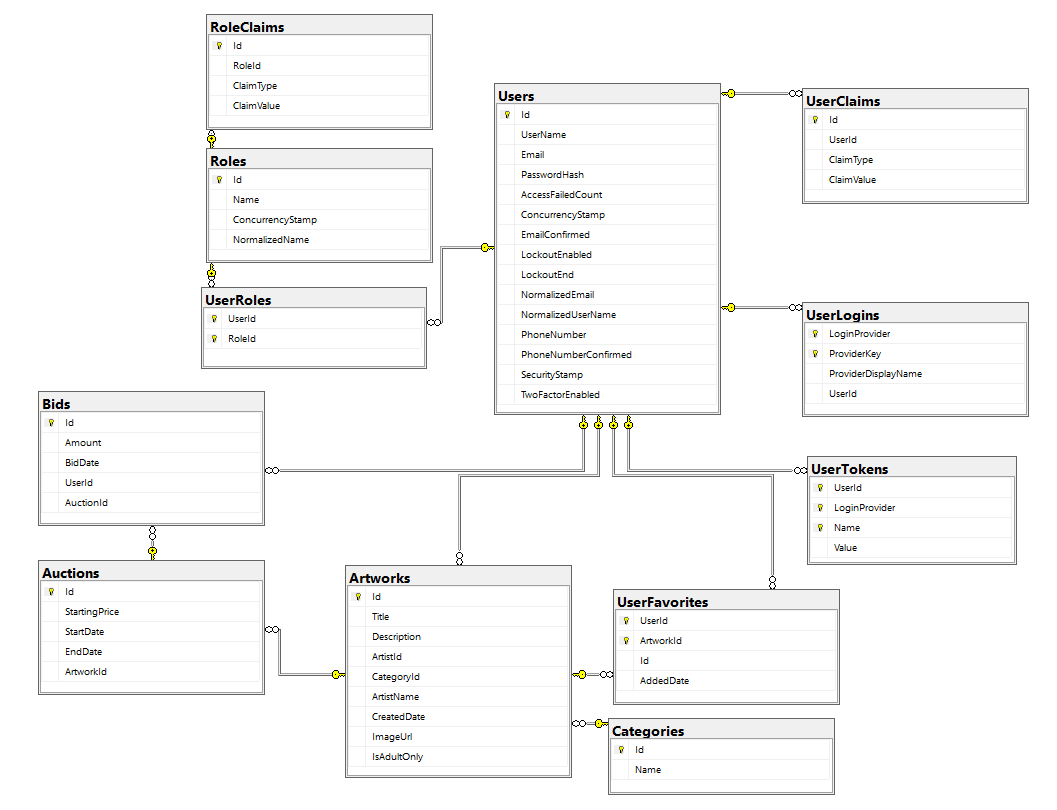
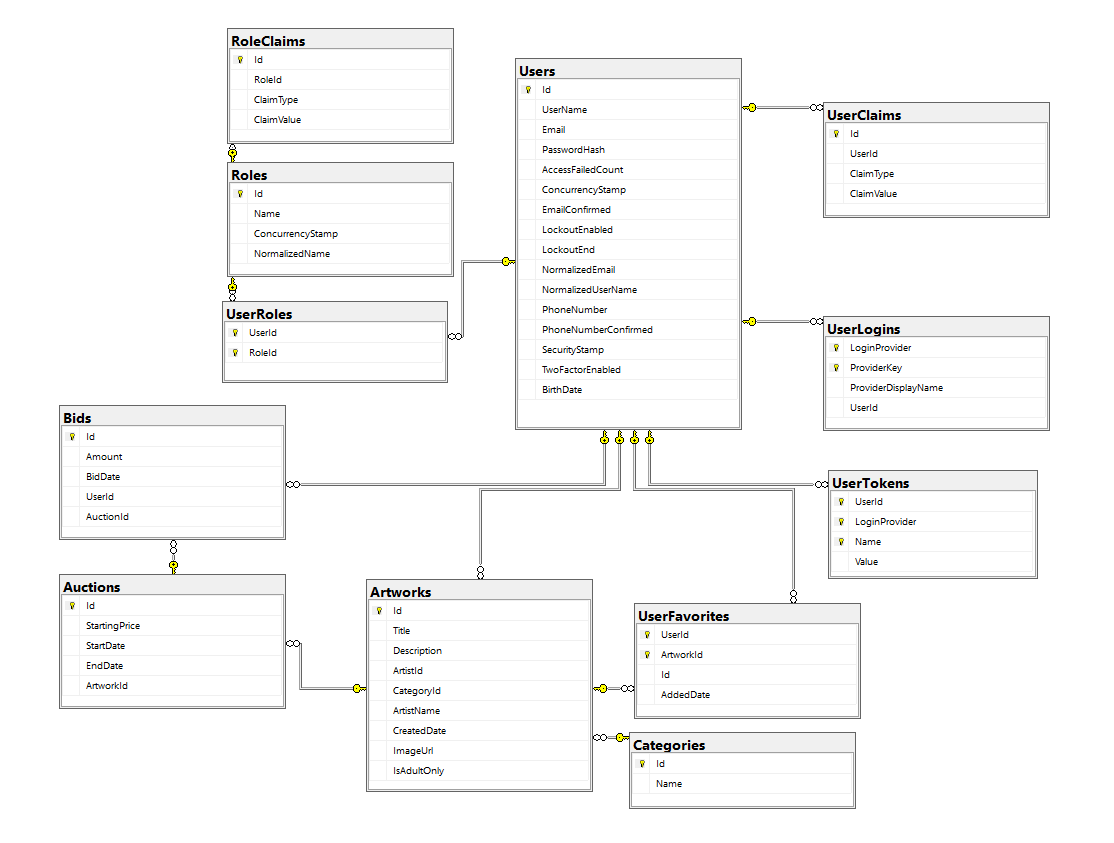
Update documentation and project overview details

Changed region(s): [[0.0312, 0.0309, 0.9678, 0.9877]]

diff --git a/PROJECT_OVERVIEW.md b/PROJECT_OVERVIEW.md
@@ -1,0 +1,282 @@
+# ArtAuctionHub – Full Project Description
+
+## Overview
+
+**ArtAuctionHub** is a modular **ASP.NET Core 8 Web API** solution that provides a complete backend for an online **art auction platform**.  
+It allows **artists** to upload artworks and manage auctions, while **buyers** can place real-time bids and manage favorites.  
+The system demonstrates a **clean architecture approach**, combining **Entity Framework Core**, **ASP.NET Identity**, **JWT authentication**, **SignalR**, **WebSockets**, and **custom middleware** for a scalable, production-grade solution.
+
+---
+
+## Architectural Overview
+
+```
+├── ArtAuctionHub.API
+├── ArtAuctionHub.Application
+├── ArtAuctionHub.Domain
+├── ArtAuctionHub.Infrastructure
+├── ArtAuctionHub.Shared
+└── ArtAuctionHub.SignalRClientTest
+```
+
+Each layer serves a distinct purpose:
+
+| Project | Purpose |
+|----------|----------|
+| **ArtAuctionHub.API** | Exposes RESTful endpoints and real-time hubs; handles authentication, middleware, and request routing |
+| **ArtAuctionHub.Application** | Contains service interfaces, DTOs, and business logic implementations |
+| **ArtAuctionHub.Domain** | Holds core entities and domain models with business rules |
+| **ArtAuctionHub.Infrastructure** | Implements persistence (EF Core), repositories, and external service integrations |
+| **ArtAuctionHub.Shared** | Provides constants, utilities, custom exceptions, and cross-layer extensions |
+| **ArtAuctionHub.SignalRClientTest** | Serves as a local testing tool for SignalR client interactions |
+
+---
+
+## User Roles
+
+| Role | Description | Permissions |
+|------|--------------|-------------|
+| **Artist** | Registered creator | Upload artworks, manage auctions |
+| **Buyer** | Registered collector | Place bids, view auctions, manage favorites |
+
+---
+
+## Core Functional Modules
+
+### 1. Authentication & Authorization
+**Controller:** `AuthController`:contentReference[oaicite:0]{index=0}
+
+- `POST /api/auth/register` – Registers a new user  
+- `POST /api/auth/login` – Authenticates and issues JWT  
+- `GET /api/auth/me` – Returns info about the authenticated user  
+
+**Implementation Details:**
+- Built using **ASP.NET Core Identity** and **JWT Bearer Authentication**
+- Role-based authorization using `[Authorize(Roles = "...")]`
+- Token claims include user ID and roles
+- Uses `IAuthService` for registration, login, and user retrieval
+
+---
+
+### 2. Artwork Management
+**Controller:** `ArtworksController`:contentReference[oaicite:1]{index=1}
+
+- `POST /api/artworks` – Create a new artwork *(Artist only)*  
+- `PUT /api/artworks/{id}` – Update an existing artwork *(Artist only)*  
+- `DELETE /api/artworks/{id}` – Delete artwork *(Artist only)*  
+- `GET /api/artworks` – Retrieve all artworks  
+- `GET /api/artworks/my` – Retrieve artworks of the current artist  
+
+**Highlights:**
+- Supports image upload via `CreateArtworkForm`
+- Uses **AutoMapper** for DTO ↔ Entity conversion
+- Integrates **ICacheService** to cache artwork listings
+- Logs user actions with injected `ILogger`
+- Restricts modification endpoints to `Artist` role
+
+---
+
+### 3. Auction Management
+**Controller:** `AuctionsController`:contentReference[oaicite:2]{index=2}
+
+- `POST /api/auctions` – Create new auction *(Artist only)*  
+- `PUT /api/auctions/{auctionId}` – Update auction *(Artist only)*  
+- `DELETE /api/auctions/{auctionId}` – Delete auction *(Artist only)*  
+- `GET /api/auctions/active` – List all active auctions  
+- `GET /api/auctions/my` – List artist’s auctions  
+- `GET /api/auctions/{auctionId}` – Retrieve auction details  
+
+**Highlights:**
+- Validates ownership before update/delete
+- Returns mapped DTOs for all operations
+- Logs user actions via `ILogger`
+- Integrates with SignalR for real-time updates
+
+---
+
+### 4. Bidding System
+**Controller:** `BidsController`:contentReference[oaicite:3]{index=3}
+
+- `POST /api/bids` – Place a bid *(Buyer only)*  
+- `GET /api/bids/my` – Retrieve user’s bids *(Buyer only)*  
+
+**Highlights:**
+- Validates user role and bid amount
+- Relies on `IBidService` for bid creation and retrieval
+
+---
+
+### 5. Favorites Management
+**Controller:** `FavoritesController`:contentReference[oaicite:4]{index=4}
+
+- `POST /api/favorites/{artworkId}` – Add artwork to favorites *(Buyer only)*  
+- `DELETE /api/favorites/{artworkId}` – Remove from favorites *(Buyer only)*  
+- `GET /api/favorites` – Get all user favorites *(Buyer only)*  
+
+**Highlights:**
+- Includes `AdultContentAgeCheckFilter` for restricted content  
+- Uses caching for performance optimization  
+- Maps `Favorite` entities to artwork DTOs using **AutoMapper**
+
+---
+
+### 6. Categories
+**Controller:** `CategoriesController`:contentReference[oaicite:5]{index=5}
+
+- `GET /api/categories` – Retrieve all artwork categories  
+
+**Highlights:**
+- Uses **ICategoryService** and **ICacheService**  
+- Implements cache expiration and sliding expiration  
+- Returns lightweight category list to minimize payloads
+
+---
+
+## Real-Time Communication
+
+### SignalR Hub – `AuctionBidHub`:contentReference[oaicite:6]{index=6}
+- Endpoint: `/hubs/auction-bids`
+- Methods:
+  - `JoinAuction(int auctionId)` – Join a live auction group
+  - `PlaceBid(int auctionId, decimal amount)` – Place a new bid
+- Sends messages:
+  - `BidPlaced` – Broadcasts new bids
+  - `CurrentBid` – Sends current highest bid on join
+  - `Error` – For invalid bids or authorization issues
+
+### WebSocket Middleware – `AuctionBidWebSocketMiddleware`:contentReference[oaicite:7]{index=7}
+- Endpoint: `/ws/auction-bids?auctionId=<id>`
+- Handles low-level WebSocket bid connections
+- Maintains active socket groups per auction
+- Validates user, auction, and bid logic
+- Broadcasts bid updates to all connected clients
+- Falls back to HTTP for unsupported clients
+
+---
+
+## Middleware Overview
+
+| Middleware | Purpose |
+|-------------|----------|
+| **ExceptionHandlingMiddleware** | Converts unhandled exceptions into JSON problem details |
+| **RequestLoggingMiddleware** | Logs requests and execution times |
+| **AuctionExistenceMiddleware** | Verifies that the auction exists before processing |
+| **AuctionBidWebSocketMiddleware** | Manages WebSocket connections and broadcasts |
+
+These middlewares are configured and executed in order within `Program.cs`:contentReference[oaicite:8]{index=8}.
+
+---
+
+## Domain Model Summary
+
+| Entity | Description |
+|---------|-------------|
+| **User** | Extends `IdentityUser<int>`; includes birthdate, artworks, and favorites |
+| **Role** | Extends `IdentityRole<int>`; defines user roles (Artist, Buyer) |
+| **Artwork** | Represents an uploaded art piece with title, description, image, and category |
+| **Auction** | Defines start/end time, starting price, and links to an artwork |
+| **Bid** | Represents a buyer’s offer with amount, timestamp, and auction reference |
+| **Category** | Classifies artworks into categories |
+| **UserFavorites** | Many-to-many mapping between `User` and `Artwork` |
+| **UserRole** | Many-to-many mapping between `User` and `Role` |
+
+---
+
+## Application Configuration & Startup
+
+`Program.cs` is the entry point configuring the app’s pipeline and DI container
+
+---
+
+### Key Service Registrations
+
+**1. Logging & Configuration**
+- Clears existing providers and adds console logging for clarity and performance.  
+- Reads all app settings from `appsettings.json`, including **AdultContentOptions** for age-restricted features.
+
+**2. Authentication & Identity**
+- Configures **ASP.NET Identity** with custom password requirements:
+  - Minimum 6 characters  
+  - Must include digits  
+  - Non-alphanumeric and uppercase are optional  
+- Integrates **JWT Authentication** through `AddJwtAuth()` extension.  
+- Enables role-based authorization (`Artist`, `Buyer`).  
+
+**3. Database & Persistence**
+- Registers database infrastructure via `AddInfrastructure()`,  
+  providing **Entity Framework Core (SQL Server)**, repositories, and database context `ArtAuctionHubDbContext`.  
+- Ensures automatic database migration at startup with `app.MigrateDatabase<ArtAuctionHubDbContext>()`.
+
+**4. Controllers & Filters**
+- Registers controllers using `AddControllers()` and applies **global filters**:
+  - `ValidateModelFilter` → Enforces model validation and structured error responses  
+  - `LogUserActionFilter` → Logs all incoming user actions for auditing  
+
+**5. Options Pattern Usage**
+- Demonstrates all three configuration patterns:
+  - `IOptions<T>` → Static configuration (`AdultContentStartupLogger`)  
+  - `IOptionsSnapshot<T>` → Per-request updates (`AdultContentConfigController`)  
+  - `IOptionsMonitor<T>` → Live change tracking (`AdultContentChangeWatcher`)
+
+**6. Core Services**
+Registers core scoped services used across the system:
+- `IAuthService`, `IAuctionService`, `IArtworkService`, `IBidService`, `IFavoriteService`, `ICategoryService`
+- `ICacheService` implemented by `MemoryCacheService`
+- `PasswordHasherService` for secure password operations
+- `AdultContentAgeCheckFilter` for content age verification
+
+**7. SignalR & Real-Time Features**
+- `AddSignalR()` enables **real-time communication** between the server and clients.
+- Maps the **AuctionBidHub** to `/hubs/auction-bids` for live bidding functionality.
+- Adds **AuctionBidWebSocketMiddleware** as a parallel WebSocket-based real-time channel.
+
+**8. Caching**
+- Combines **In-Memory Cache** and **Response Caching** to improve API performance and reduce redundant queries.
+
+**9. Exception Handling**
+- Uses `AddExceptionHandling()` for global exception management.
+- Converts exceptions into standardized JSON responses with meaningful messages and status codes.
+
+**10. Swagger Documentation**
+- Integrates **Swagger/OpenAPI** for interactive API exploration.  
+- Adds JWT bearer security definition for authorized testing directly in Swagger UI.  
+- Enabled automatically in non-production environments.
+
+---
+
+### Middleware Pipeline Order
+
+The order of middleware execution in `Program.cs` ensures optimal performance, security, and clarity:contentReference[oaicite:1]{index=1}:
+
+1. **`UseExceptionHandling()`**  
+   Centralized exception middleware capturing all unhandled errors and returning structured JSON responses.  
+
+2. **`UseWebSockets()`**  
+   Enables native WebSocket support for real-time communication.  
+
+3. **`UseRequestLoggingMiddleware()`**  
+   Custom middleware that logs request details (method, path, response time, status).  
+
+4. **`UseHttpsRedirection()`**  
+   Redirects HTTP requests to HTTPS to enforce secure communication.  
+
+5. **`UseResponseCaching()`**  
+   Caches GET responses to enhance response speed and reduce server load.  
+
+6. **`UseAuthentication()`**  
+   Verifies JWT tokens and user identity for all protected routes.  
+
+7. **`UseAuthorization()`**  
+   Enforces role-based access control defined in controllers.  
+
+8. **`AddAuctionExistenceMiddleware()`**  
+   Validates that a requested auction exists before controller logic executes.  
+
+9. **`UseAuctionBidWebSocket()`**  
+   Manages WebSocket connections for auction bid streams (`/ws/auction-bids`).  
+
+10. **`MapHub<AuctionBidHub>()`**  
+    Registers SignalR hub at `/hubs/auction-bids` to broadcast bid updates in real time.  
+
+11. **`MapControllers()`**  
+    Maps all REST API endpoints (Auth, Artworks, Auctions, etc.) to the pipeline.

diff --git a/README.md b/README.md
@@ -290,3 +290,6 @@ dotnet ef migrations add <MigrationName> --project ArtAuctionHub.Infrastructure 
 ```powershell
 Add-Migration <MigrationName> -Project ArtAuctionHub.Infrastructure -StartupProject ArtAuctionHub.API
 ```
+
+---
+For a detailed architectural breakdown, see the [PROJECT_OVERVIEW.md](./PROJECT_OVERVIEW.md) file.
